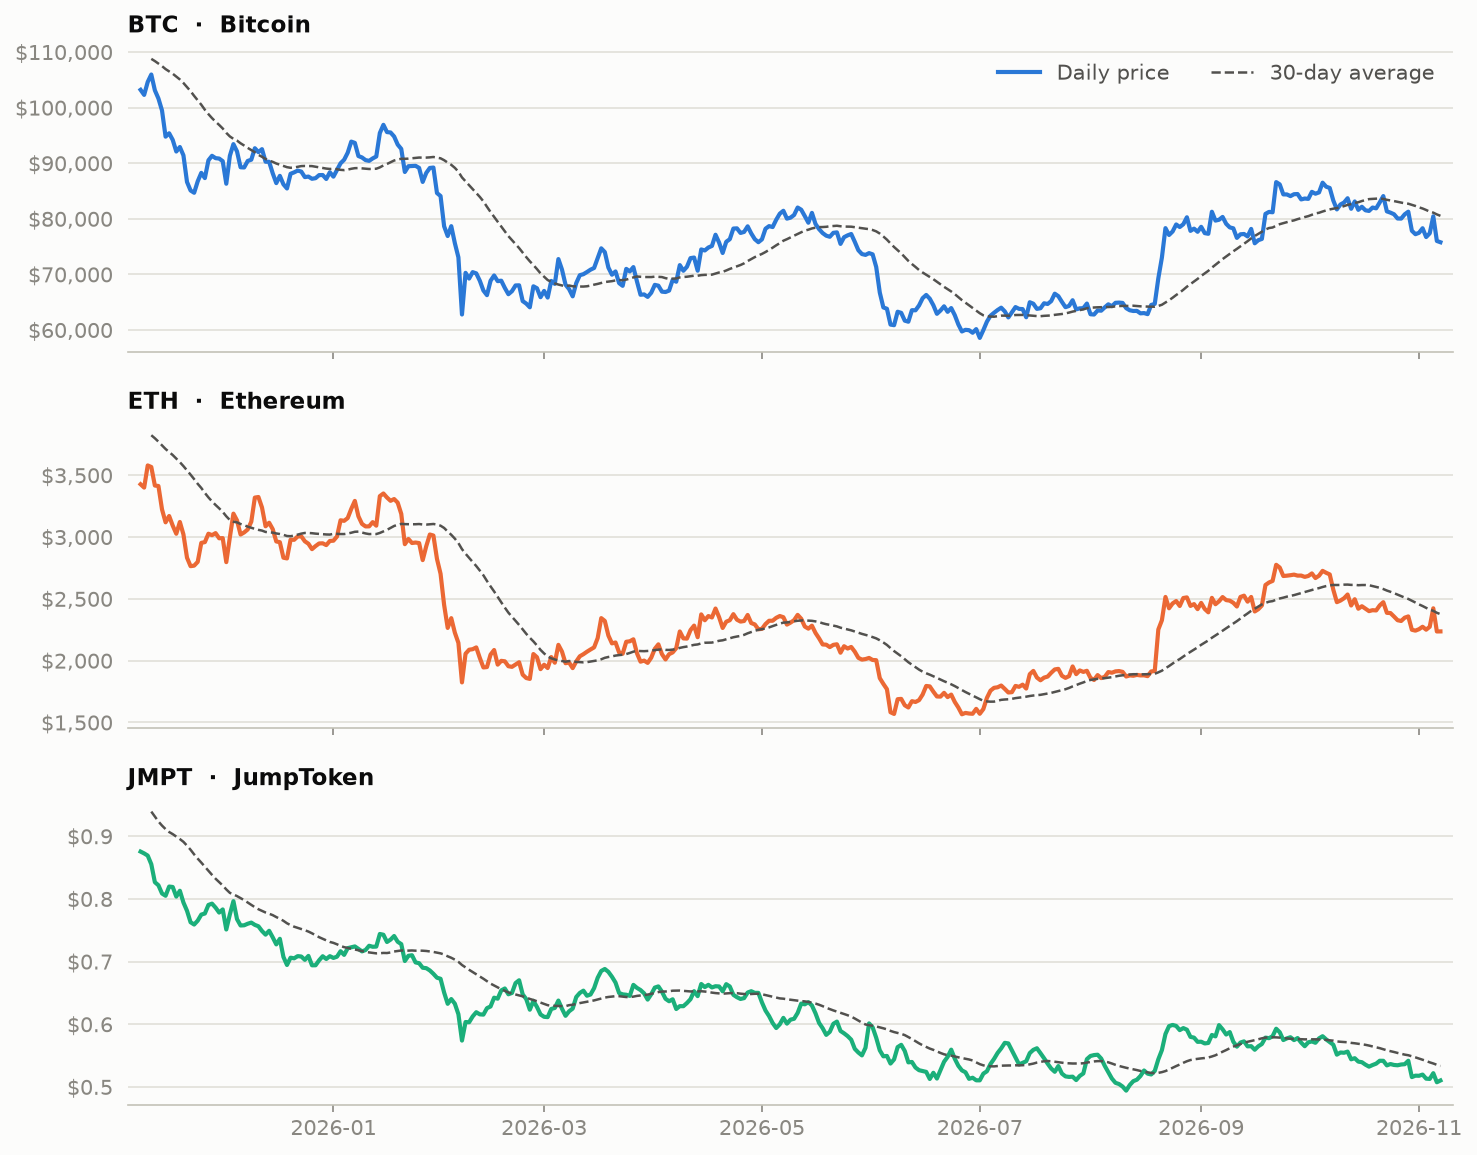
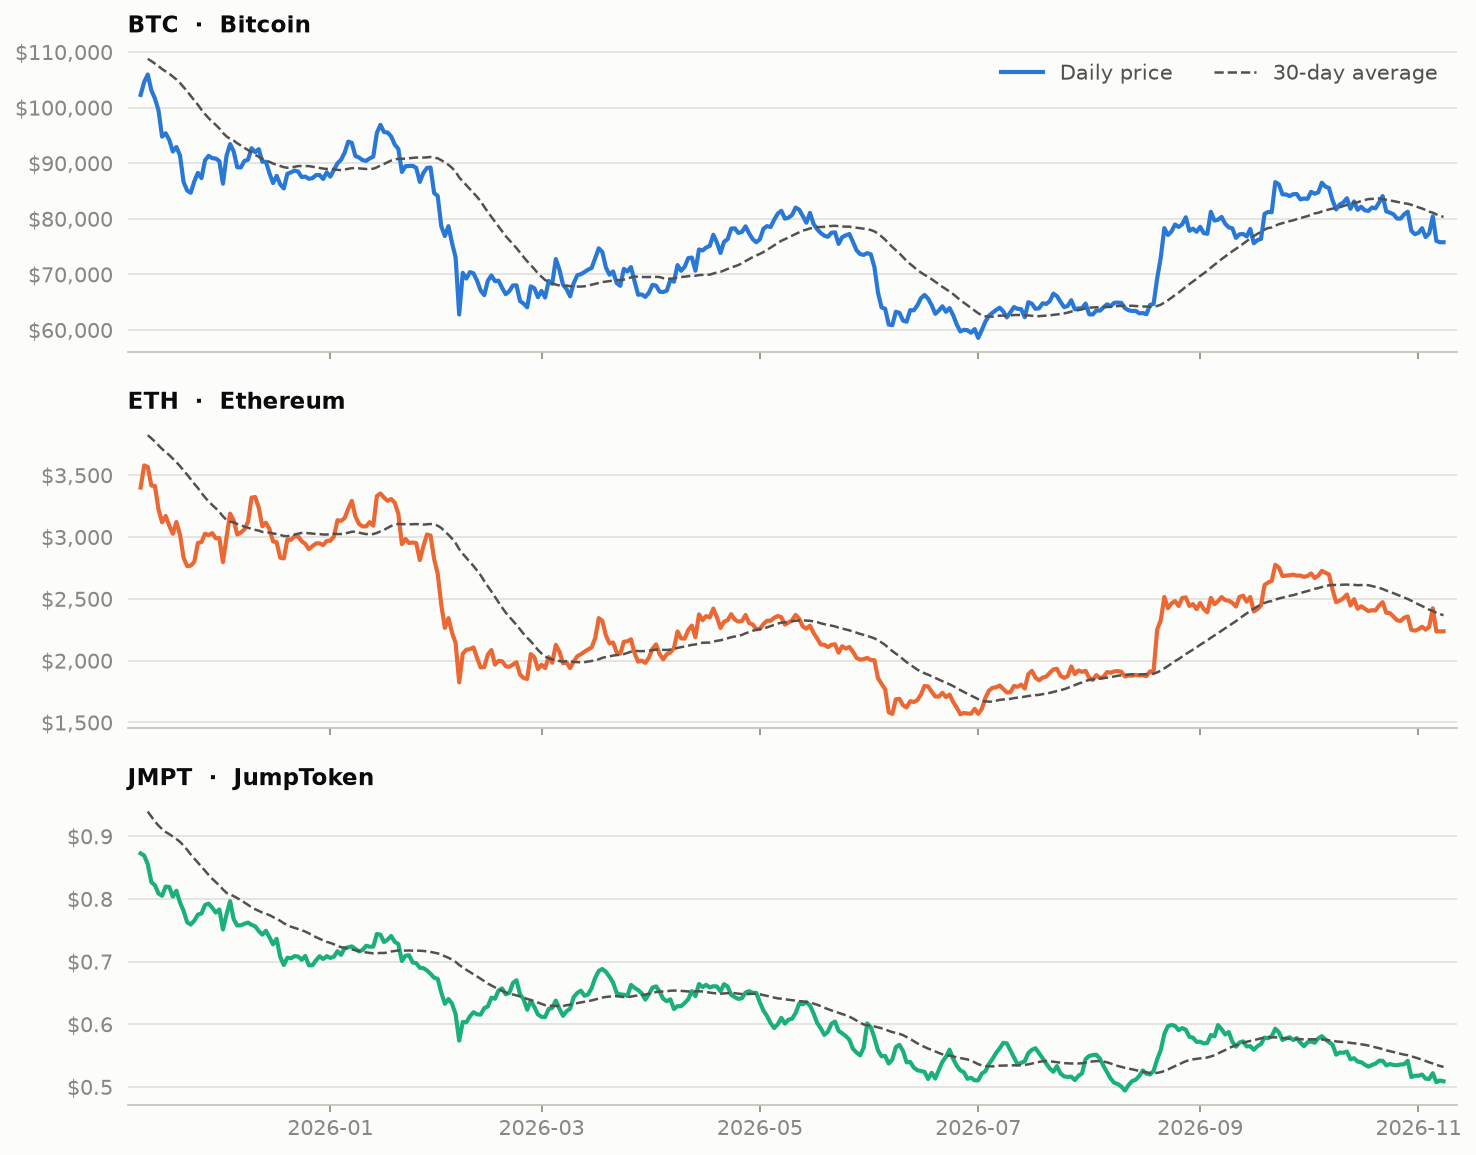
data: market update 2026-11-08

diff --git a/README.md b/README.md
@@ -9,13 +9,13 @@ The project compares two of the largest cryptocurrencies with a small-cap token:
 ## Latest stats
 
 <!-- STATS:START -->
-_Snapshot as of **2026-11-07 00:00 UTC**. Updated automatically every day._
+_Snapshot as of **2026-11-08 00:00 UTC**. Updated automatically every day._
 
 | Coin | Price | 1 day | 7 days | 30 days | 1 year | Volatility (30d) | Market cap |
 |:--|--:|--:|--:|--:|--:|--:|--:|
-| **BTC** Bitcoin | $75,775 | ▼ -0.3% | ▼ -1.9% | ▼ -9.0% | ▼ -25.2% | 36% | $1.52T |
-| **ETH** Ethereum | $2,236 | ▲ +0.0% | ▼ -0.3% | ▼ -13.1% | ▼ -32.5% | 49% | $273.26B |
-| **JMPT** JumpToken | $0.5102 | ▲ +0.6% | ▼ -1.5% | ▼ -10.1% | ▼ -40.1% | 26% | $7.53M |
+| **BTC** Bitcoin | $75,776 | ▲ +0.0% | ▼ -2.2% | ▼ -7.2% | ▼ -26.6% | 36% | $1.52T |
+| **ETH** Ethereum | $2,237 | ▲ +0.0% | ▼ -0.8% | ▼ -9.5% | ▼ -34.7% | 48% | $273.36B |
+| **JMPT** JumpToken | $0.5088 | ▼ -0.3% | ▼ -1.7% | ▼ -7.7% | ▼ -41.9% | 24% | $7.51M |
 <!-- STATS:END -->
 
 ## Charts
